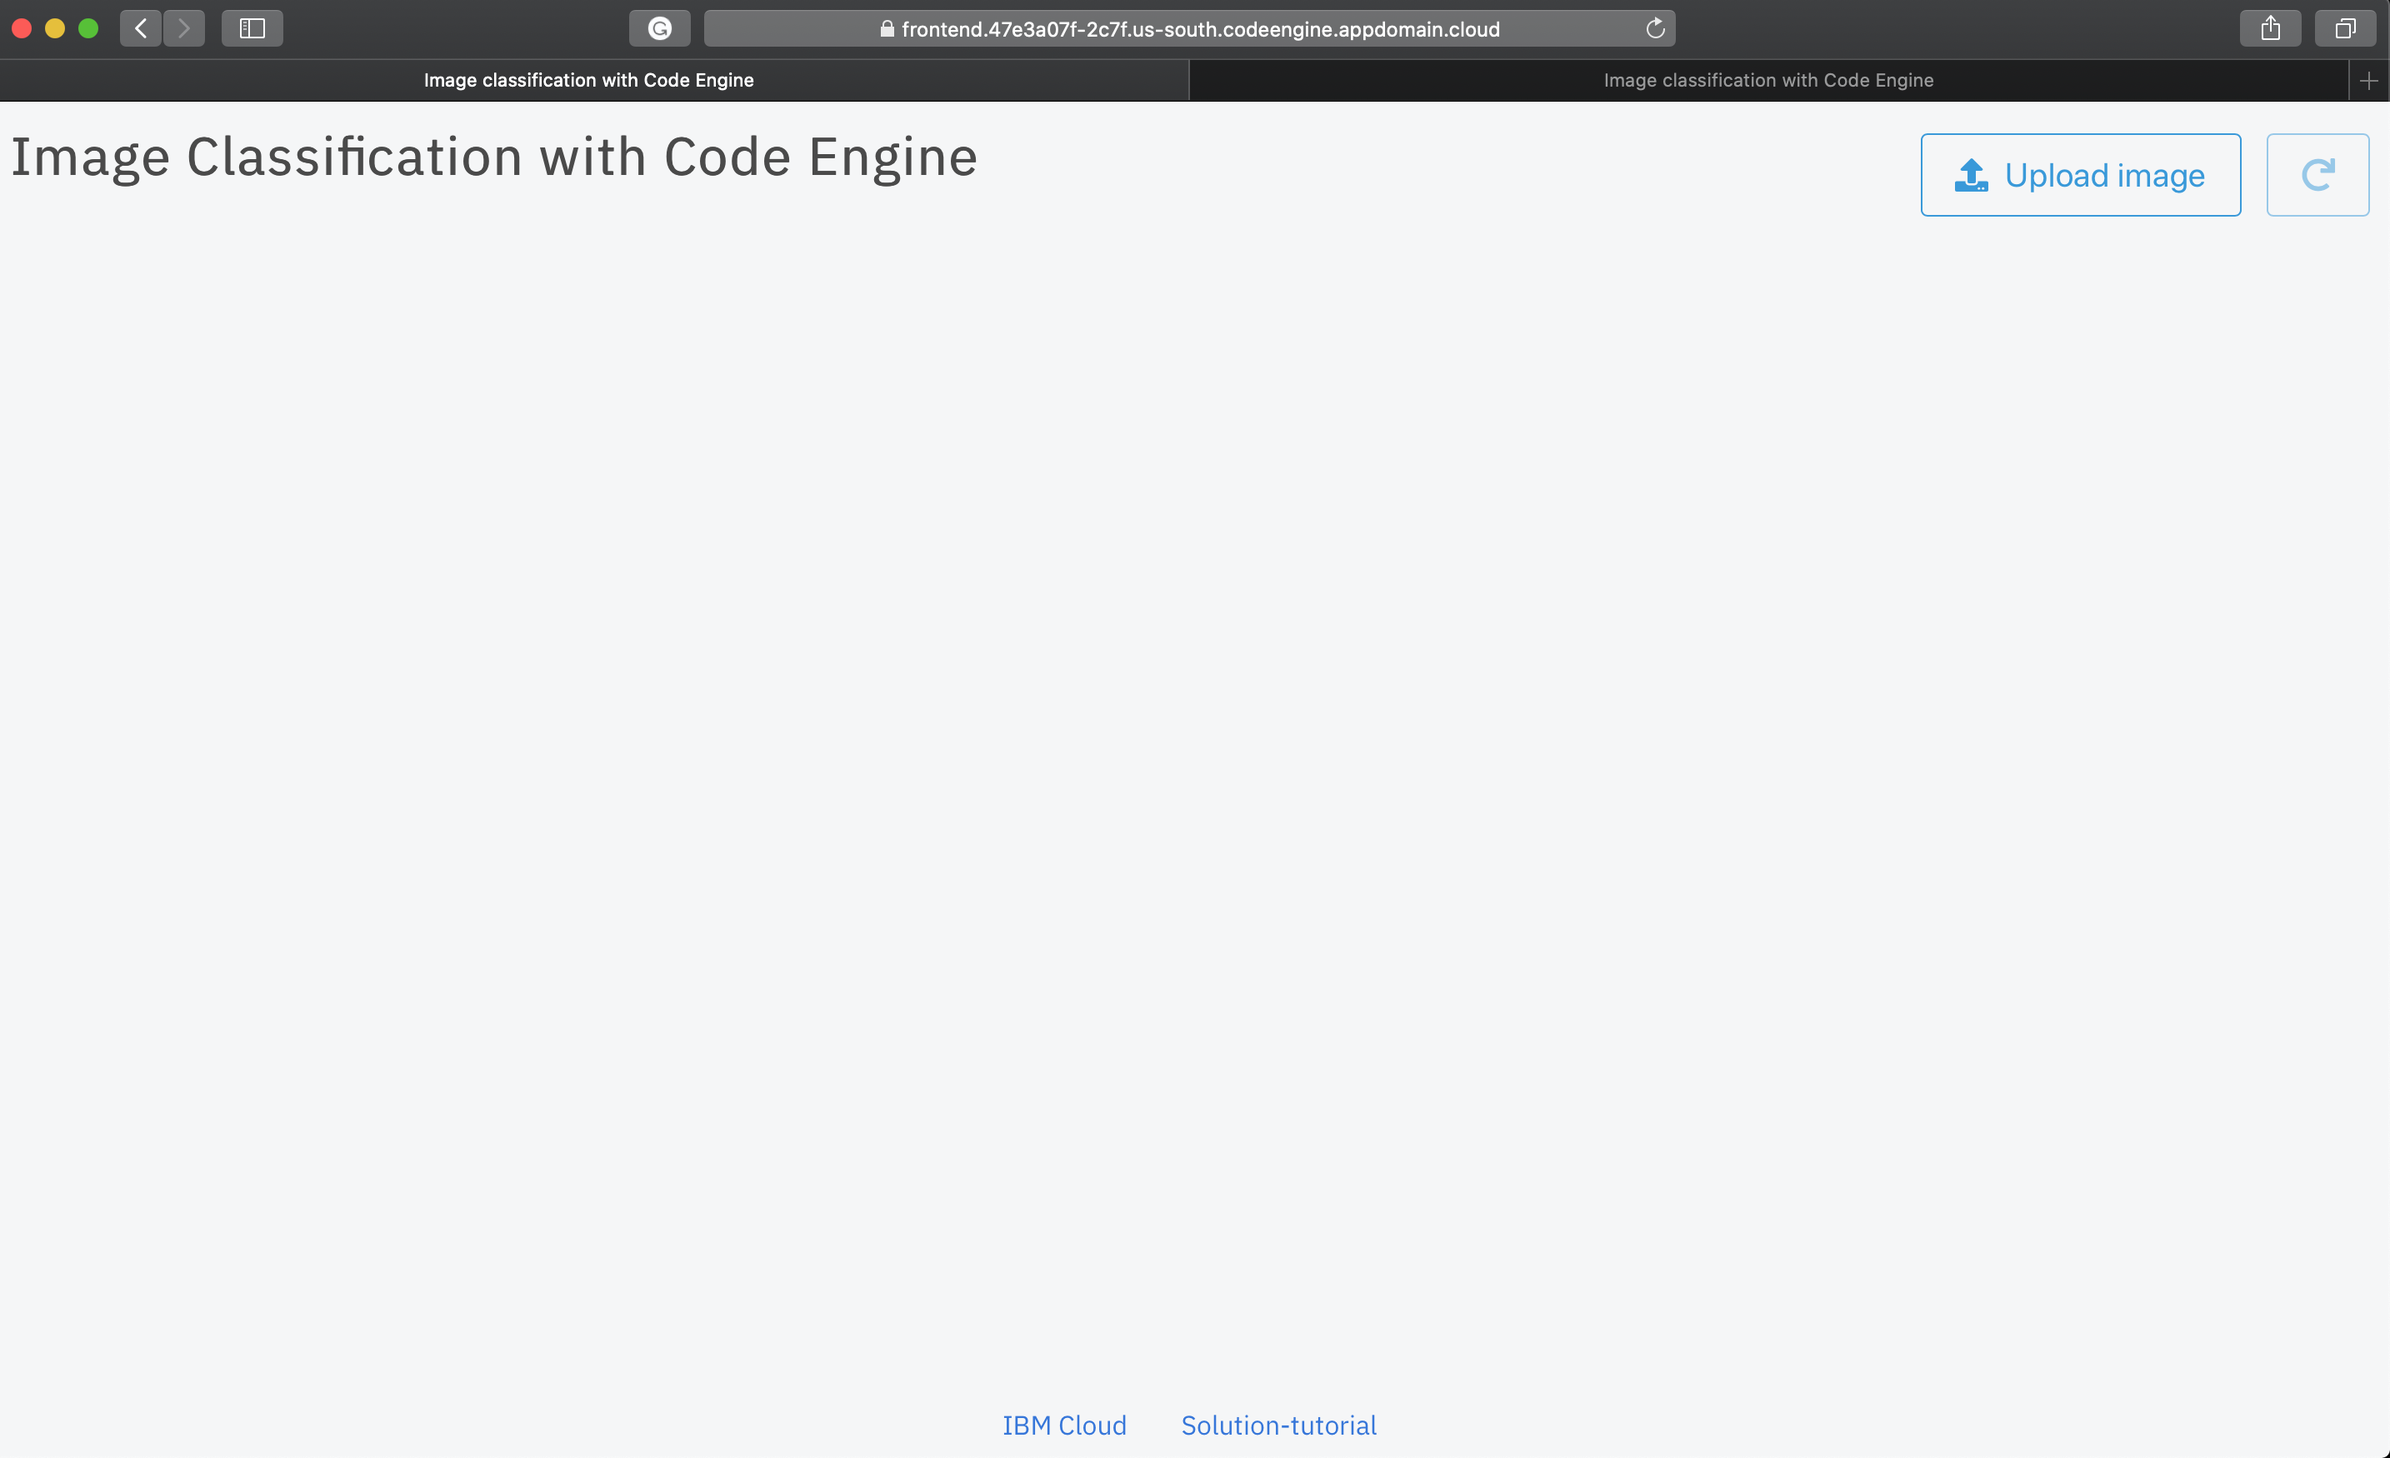
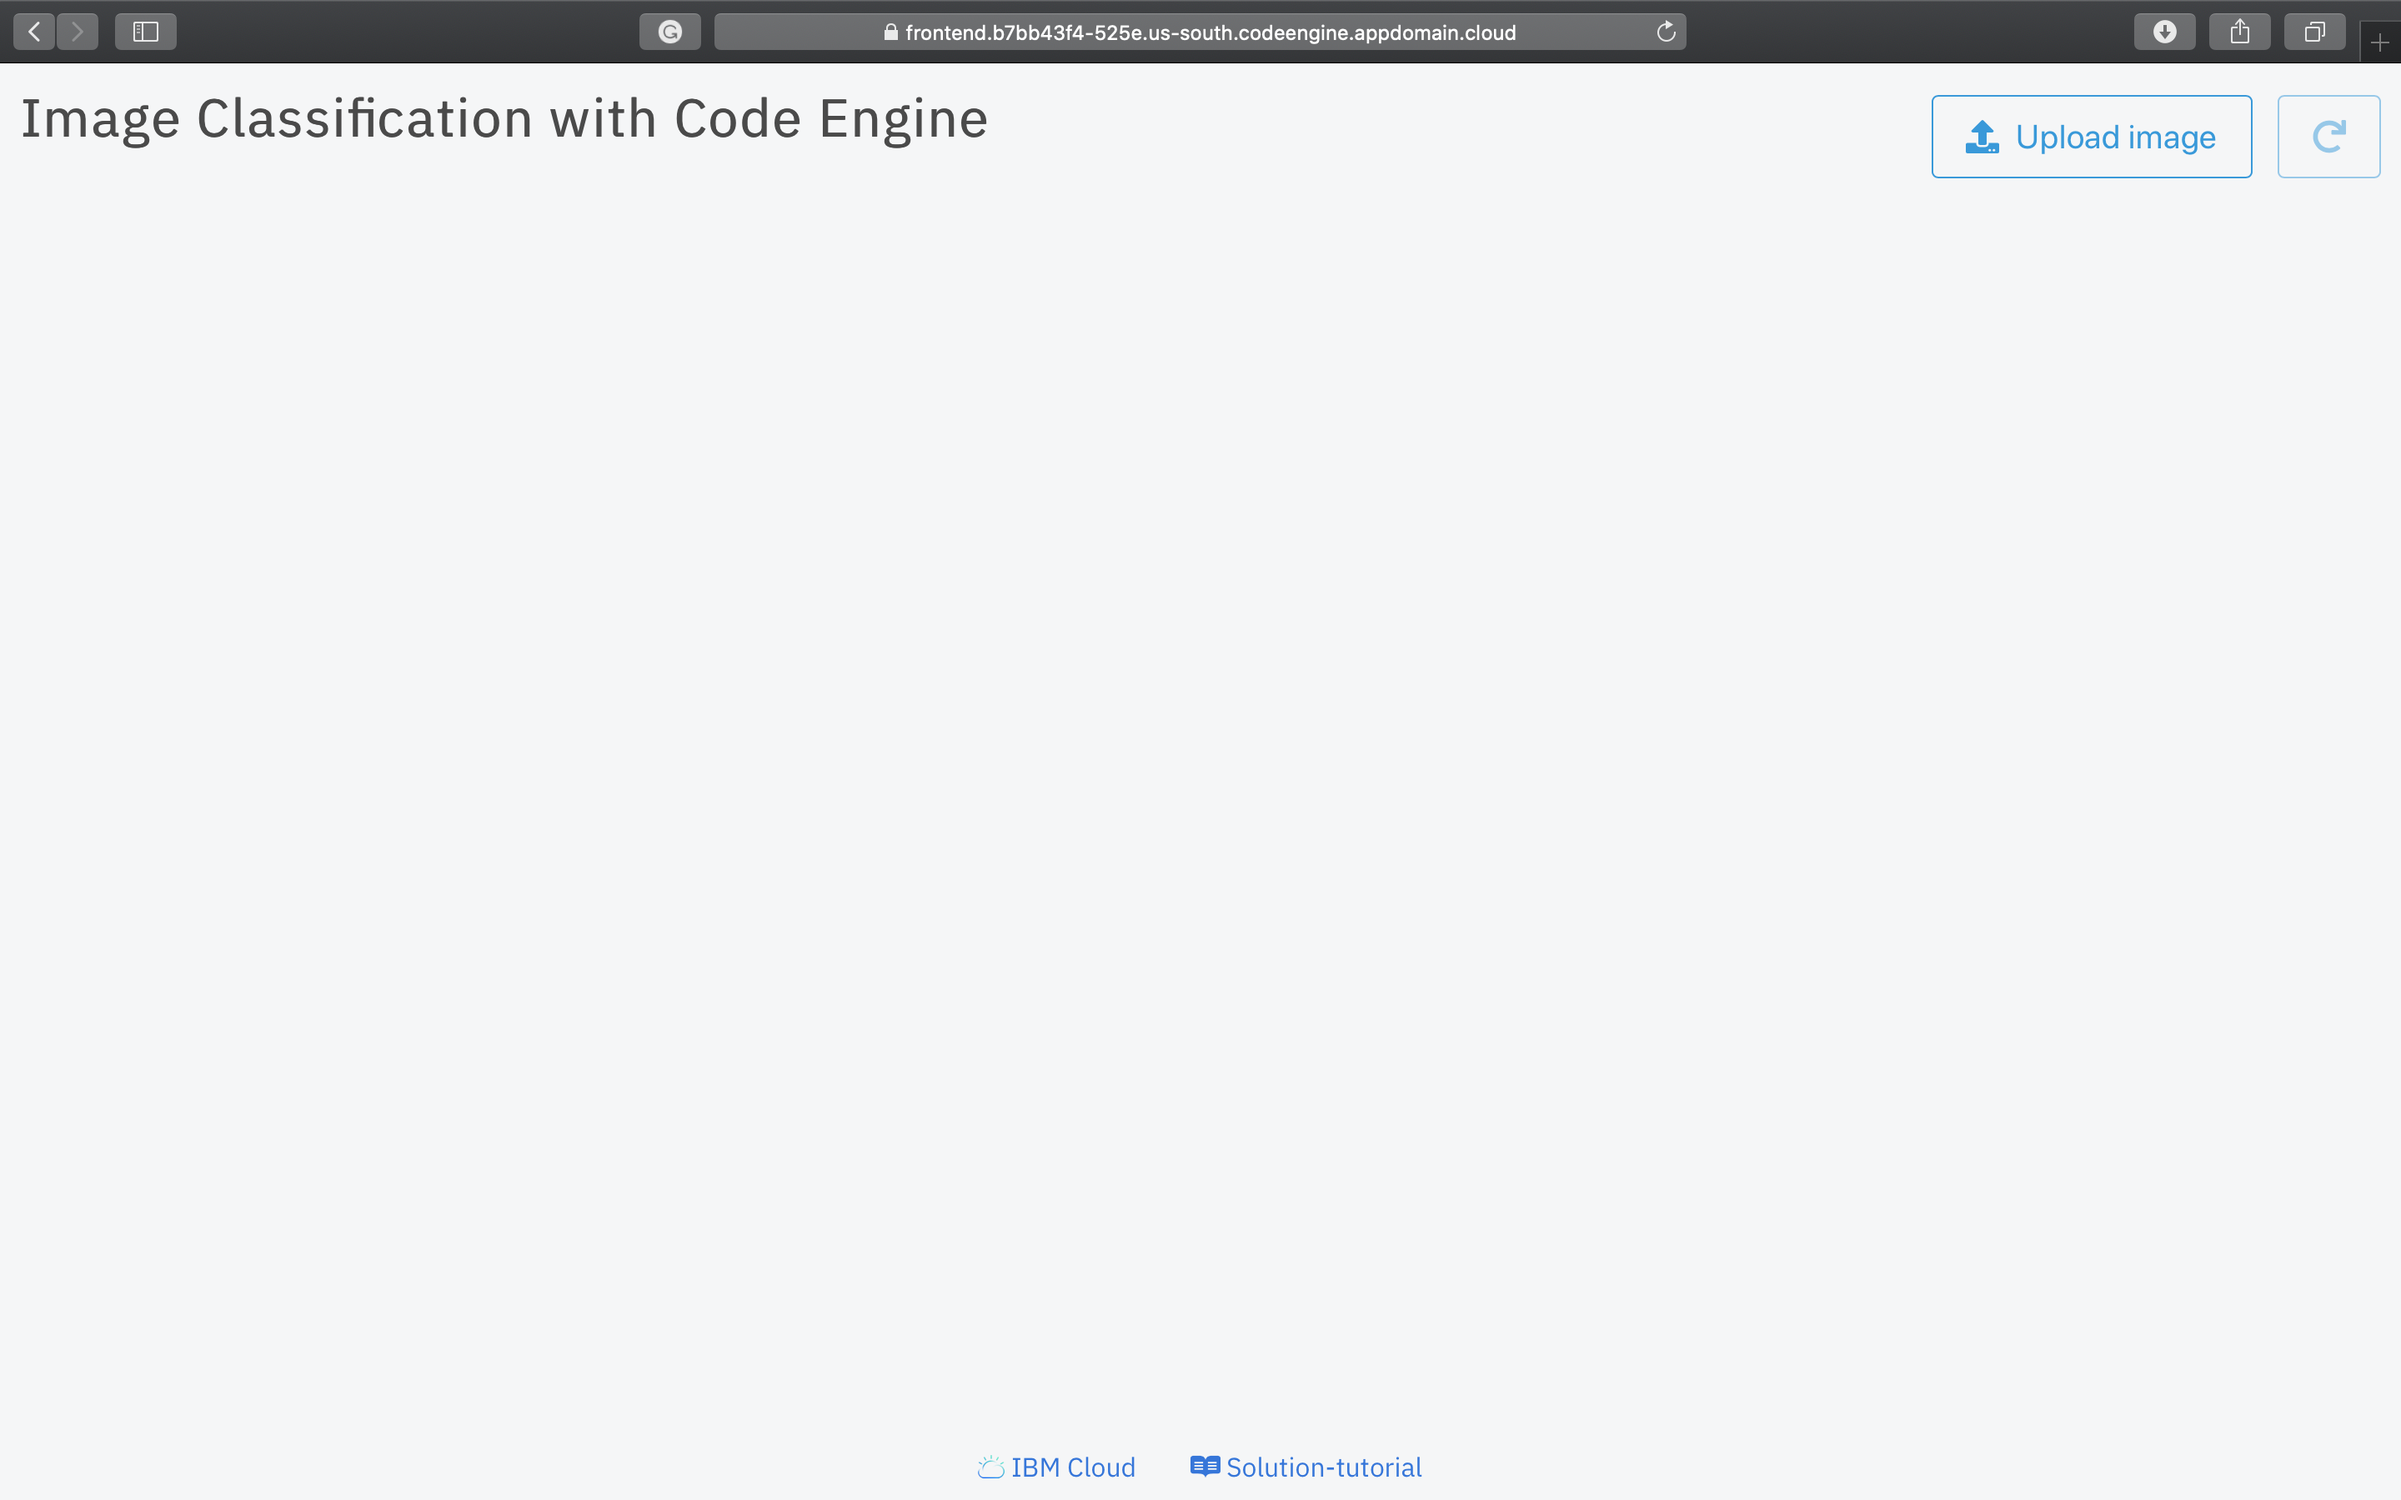
Added new screenshots

Changed region(s): [[0.0, 0.0, 1.0, 0.1543], [0.4965, 0.9566, 0.5896, 0.9874], [0.4034, 0.9566, 0.4655, 0.9874]]

diff --git a/image-classification-code-engine.md b/image-classification-code-engine.md
@@ -2,7 +2,7 @@
 subcollection: solution-tutorials
 copyright:
   years: 2020
-lastupdated: "2020-09-23"
+lastupdated: "2020-09-24"
 lasttested: "2020-09-23"
 
 content-type: tutorial
@@ -130,7 +130,7 @@ We've already built images for the two applications and pushed them to the publi
    ```
    {:pre}
 
-   After running this command, you should see some output with a URL to your application. It should look something like: `https://frontend.47e3a07f-2c7f.us-south.codeengine.appdomain.cloud`. Make note of this application URL for the next step. With just these two pieces of data (application name and image name), {{site.data.keyword.codeengineshort}} has deployed your application and will handle all of the complexities of configuring it and managing it for you.
+   After running this command, you should see some output with a URL to your application. It should look something like: `https://frontend.b7bb43f4-525e.us-south.codeengine.appdomain.cloud`. Make note of this application URL for the next step. With just these two pieces of data (application name and image name), {{site.data.keyword.codeengineshort}} has deployed your application and will handle all of the complexities of configuring it and managing it for you.
 
    The application source code used to build the container images - `ibmcom/*` is available in a [GitHub repo](https://github.com/IBM-Cloud/code-engine-image-classification) for your reference.
    {:tip}
